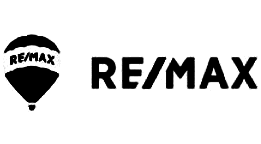
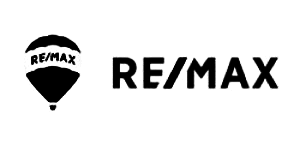
Final Commit

Changed region(s): [[0.3372, 0.3889, 1.0, 0.6389], [0.0, 0.2222, 0.2759, 0.7778]]

diff --git a/index.html b/index.html
@@ -60,7 +60,7 @@
                 <div class="hero-content">
                   <h1>Virtual staging sells faster and for more money</h1>
                   <p class="me-xl-5">
-                    Get a professional virtual stager for your real estate
+                    Get a dedicated virtual stager for your real estate
                     business.
                   </p>
                   <div class="hero-btn primary-btn">

diff --git a/assets/css/style.css b/assets/css/style.css
@@ -285,7 +285,7 @@ section#Hero {
   color: #000000;
 }
 .hero-content p {
-  font-size: 25px;
+  font-size: 24px;
   font-weight: 500;
   color: #383838;
   padding-top: 5px;
@@ -311,8 +311,7 @@ section#Hero {
 /* Company Section CSS Start */
 
 .company-logo-wrapper img {
-  width: 140px;
-  height: 120px;
+  width: 160px;
 }
 
 /* Company Section CSS End */

diff --git a/free-trial.html b/free-trial.html
@@ -65,7 +65,7 @@
               <h2>Free trial</h2>
               <p>
                 Your first image is on us. Try us out and see what we can do for
-                you
+                you.
               </p>
             </div>
             <div class="trial-form">
